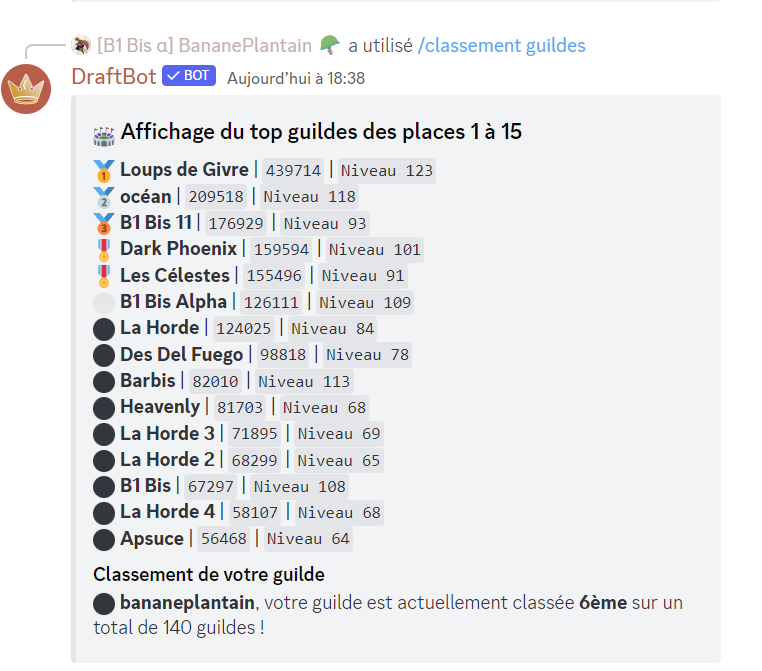
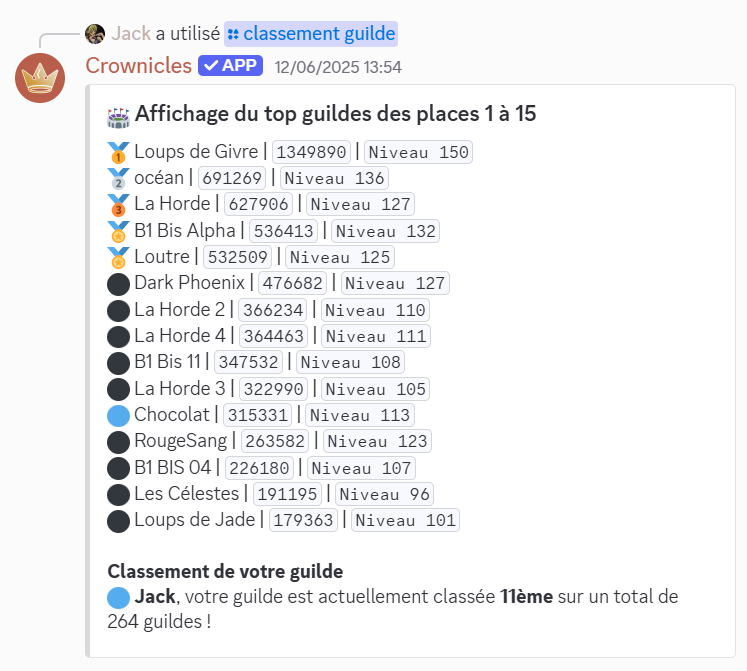
GITBOOK-683: screens + page changement de nom

Changed region(s): [[0.0, 0.0298, 0.8929, 0.9836]]

diff --git a/notions-avancees/iles-mysterieuses.md b/notions-avancees/iles-mysterieuses.md
@@ -313,7 +313,7 @@ Si vous réussissez à calmer l'animal (ou à faire en sorte qu'il ne vous attaq
 
 L'équipage du bateau vous donnera des informations sur l'île vers laquelle vous vous dirigez. Ces infos peuvent vous être utiles pour votre aventure au-delà des côtes du continent principal.
 
-<figure><picture><source srcset="../.gitbook/assets/Capture d&#x27;écran 2025-06-19 175638.png" media="(prefers-color-scheme: dark)"><img src="../.gitbook/assets/boatAdvice.png" alt="Information donné par un mini-évent sur le bateau"></picture><figcaption><p>Exemple de mini-évènement donnant des informations sur l'île</p></figcaption></figure>
+<figure><picture><source srcset="../.gitbook/assets/SE_islandinfo_sombre.png" media="(prefers-color-scheme: dark)"><img src="../.gitbook/assets/SE_islandinfo.png" alt="Information donné par un mini-évent sur le bateau"></picture><figcaption><p>Exemple de mini-évènement donnant des informations sur l'île</p></figcaption></figure>
 
 {% hint style="info" %}
 Malgré sa rareté de 1, il est le seul mini-événement disponible sur le trajet en bateau vers l'île.
@@ -325,4 +325,4 @@ Au fil de votre progression, les joueurs gagnent des points de guilde :mirror\_b
 
 &#x20;&#x20;
 
-<figure><picture><source srcset="../.gitbook/assets/Capture d’écran 2025-06-23 083739.png" media="(prefers-color-scheme: dark)"><img src="../.gitbook/assets/Screenshot_20250618-091215.png" alt="Classement des guildes en fonction de leur nombre de points de guilde"></picture><figcaption><p>Première page du classement des guildes avec le nom, niveau et nombre de points de chaque guilde</p></figcaption></figure>
+<figure><picture><source srcset="../.gitbook/assets/classement_guildes_sombre.png" media="(prefers-color-scheme: dark)"><img src="../.gitbook/assets/classement_guildes.png" alt="Classement des guildes en fonction de leur nombre de points de guilde"></picture><figcaption><p>Première page du classement des guildes avec le nom, niveau et nombre de points de chaque guilde</p></figcaption></figure>

diff --git a/lore/changement-de-nom.md b/lore/changement-de-nom.md
@@ -1,0 +1,16 @@
+# Changement de nom
+
+Au cours de son histoire, le jeu a changé 2 fois de nom :
+
+A l'origine, le bot s'appellait Draft87'bot, qui était le format par défaut à sa création, et donc un nom temporaire. N'ayant pas d'autres idées que le nom DraftBot, ce dernier a été officiellement adopté le 8 Mai 2018 (soit juste après sa création) suite à un vote.
+
+<div data-full-width="false"><figure><img src="../.gitbook/assets/image (1).png" alt=""><figcaption></figcaption></figure> <figure><img src="../.gitbook/assets/image.png" alt=""><figcaption><p> </p></figcaption></figure></div>
+
+Puis le 11 juin 2025, DraftBot est devenu Crownicles. Une annonce du créateur du jeu quelques jours plus tard vient nous expliquer que ce changement a été fait pour les raisons suivantes:
+
+* Se détacher peu à peu de Discord afin de devenir un jeu vidéo à part entière.
+* Pour éviter la confusion avec un autre bot du même nom mais aussi le problème de référencement qui va avec.
+* Le nom DraftBot ne représente pas un jeu d'aventure.
+* Après beaucoup de réflexion, une meilleur alternative avait été trouvé, Crownicles, car celle ci reflétait mieux l'essence du jeu (et aussi parce le nom n'existait pas encore).&#x20;
+
+<figure><img src="../.gitbook/assets/RapportPrésentation.png" alt=""><figcaption><p>Une relique du passé...</p></figcaption></figure>

diff --git a/SUMMARY.md b/SUMMARY.md
@@ -37,6 +37,7 @@
 * [Redactor Gang](lore/redactor-gang.md)
 * [Les personnages récurrents](lore/les-personnages.md)
 * [Grande Histoire du Kyutisme](lore/grande-histoire-du-kyutisme.md)
+* [Changement de nom](lore/changement-de-nom.md)
 
 ## Aidez-nous à développer Crownicles !
 
